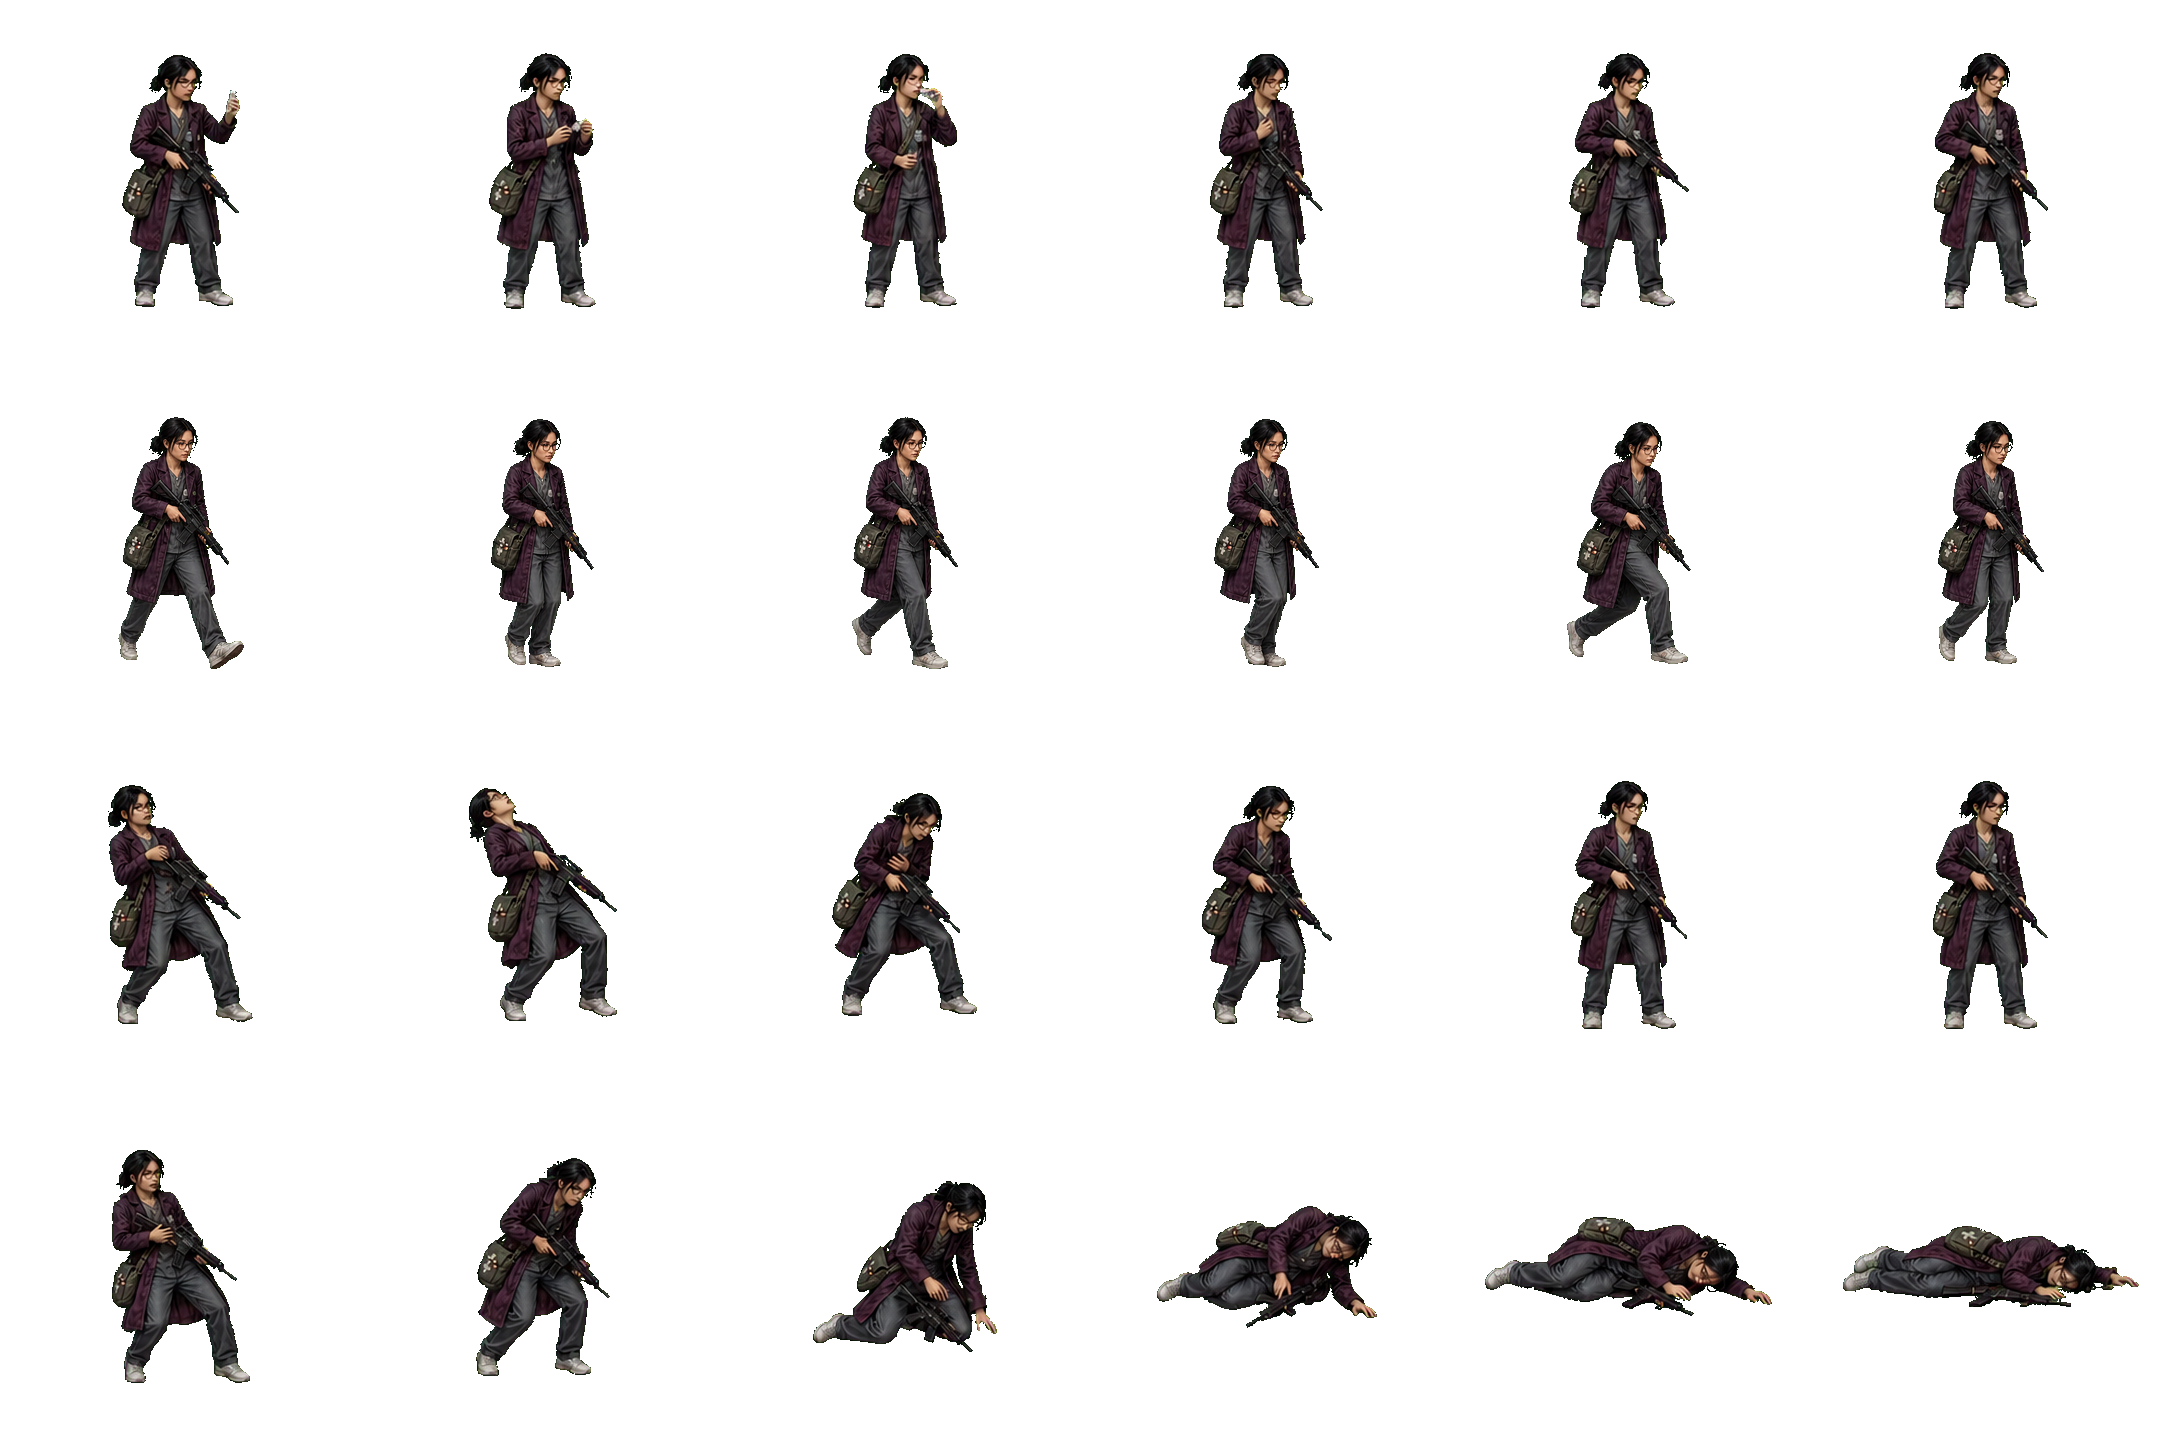
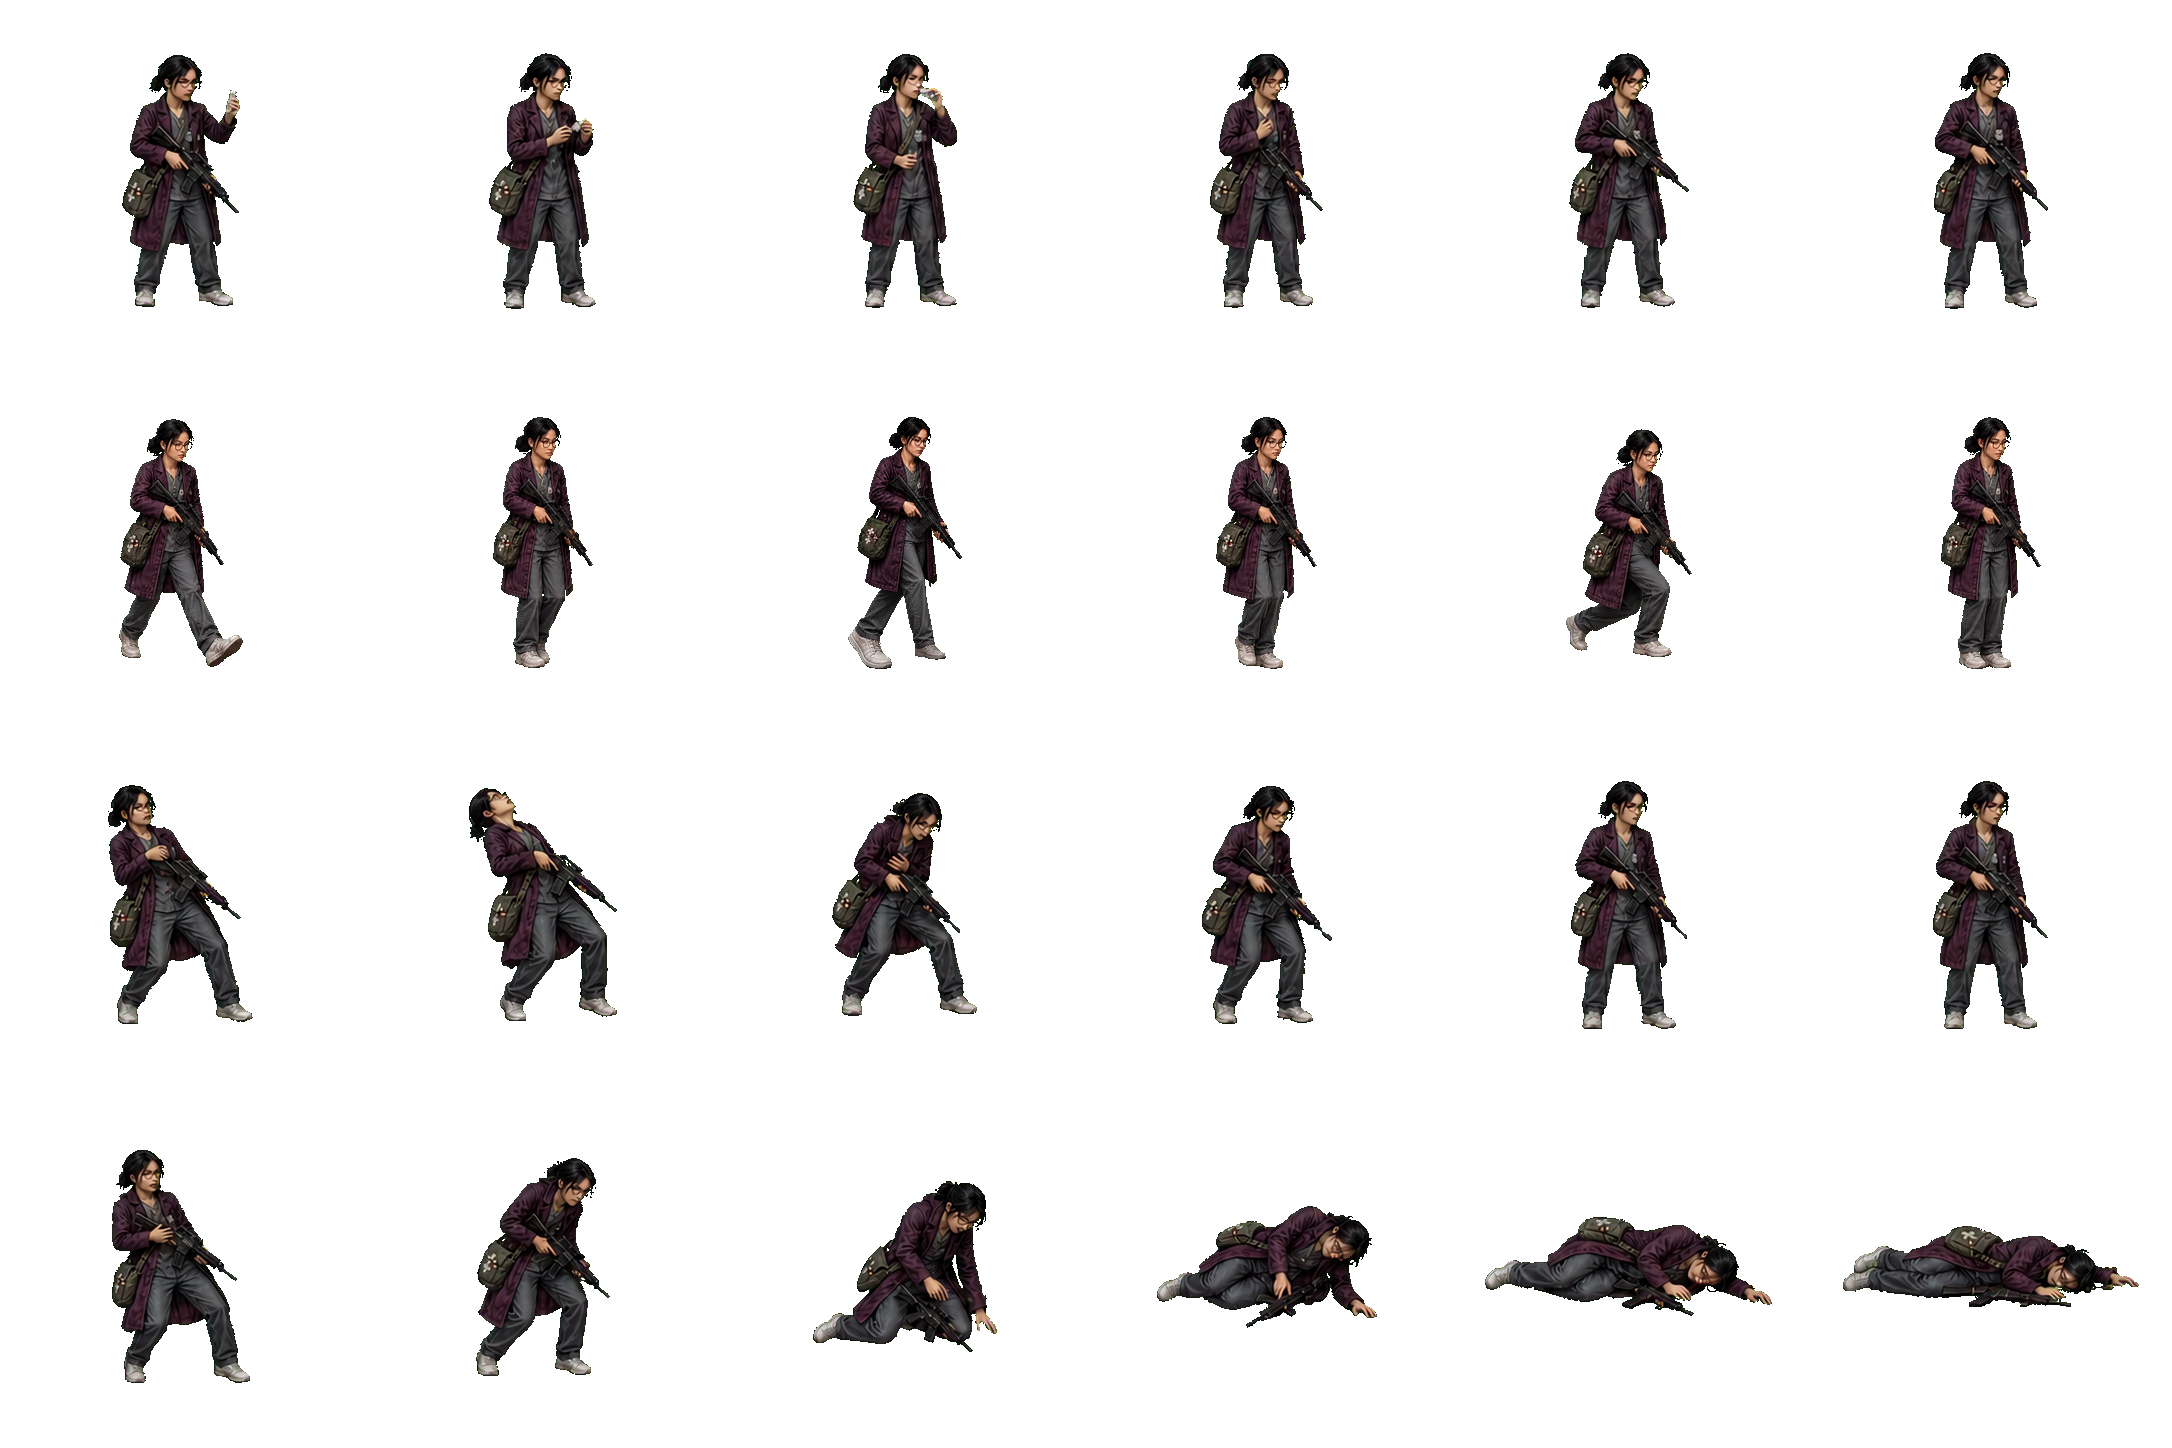
fix(assets): correct Sohee gait depth

diff --git a/docs/analysis/COMPANION_MOTION_QA.md b/docs/analysis/COMPANION_MOTION_QA.md
@@ -12,7 +12,7 @@
 
 2026-08-08 fix round 2 선택적 재검토에서는 `old_survivor_companion`과 `sous_chef_companion`의 이동 r5를 다시 교체하고 original 해상도 source alpha·runtime·개별 확대 보드를 셀별로 대조했다. 노년 생존자의 승인된 발/지팡이 phase는 유지됐고 source 여섯 셀의 좌우 gutter가 모두 49px 이상이다. 부주방장은 f1 큰·밝은 near boot toe-up contact → f2 두 발 close true passing → f3 작은·어두운 far boot flat contact와 반대 occlusion → f4 opposite close passing → f5 lowered-pelvis near-leg wide contact → f6 close neutral return으로 읽힌다. runtime normalized lower-alpha IoU는 f1/f6 `0.369`, f2/f5 `0.333`, f1/f3 `0.568`이며 이전 반복 실루엣 수치보다 낮다. 두 source/runtime 모두 셀 경계 alpha와 cross-cell component가 0이고 source 최소 gutter는 각각 49px/33px이며, 다른 188개 비대상 행은 기준선과 동일하다.
 
-2026-08-08 Task 4 선택적 재검토에서는 `sohee_companion`의 support r3, move r5, hit r6, death r7을 교체하고 original 해상도 source alpha·runtime·개별 확대 보드를 셀별로 대조했다. support는 약병 확인-계량 복용-호흡 집중-ready, move는 큰·밝은 near shoe toe-up 접지-close passing-작은 far shoe flat 접지와 반대 depth occlusion-opposite passing-굽힌 무릎 push-off-balanced return, hit는 충격-최대 recoil-전방 굴곡-전투 ready 복귀, death는 직립 부상-무릎 약화-한쪽 무릎 접지-측면 낙상-prone 정지로 읽힌다. 24개 source cell은 362×362이고 최소 좌우 gutter 33px, boundary alpha 0, cross-cell component 0이며, 비대상 188개 행은 기준선과 동일하다.
+2026-08-08 Task 4 fix round 1에서는 `sohee_companion`의 move r5만 다시 교체하고 support r3, hit r6, death r7 raw source pixels를 보존했다. original source/runtime/review에서 move f1은 큰·밝은 screen-right near boot toe-up contact, f2는 두 발 close true passing, f3은 작은·어두운 screen-right far boot flat plant와 큰 screen-left near boot trailing으로 sole·depth·occlusion이 반대, f4는 opposite close passing, f5는 낮은 골반·굽힌 무릎의 별도 near push-off/contact, f6은 두 발 side-by-side balanced neutral로 읽힌다. move source 여섯 셀의 최소 좌우 gutter는 118px, boundary alpha 0, cross-cell component 0이며, 비대상 188개 행은 기준선과 동일하다.
 
 ## 60개 스킬 수동 판정
 
